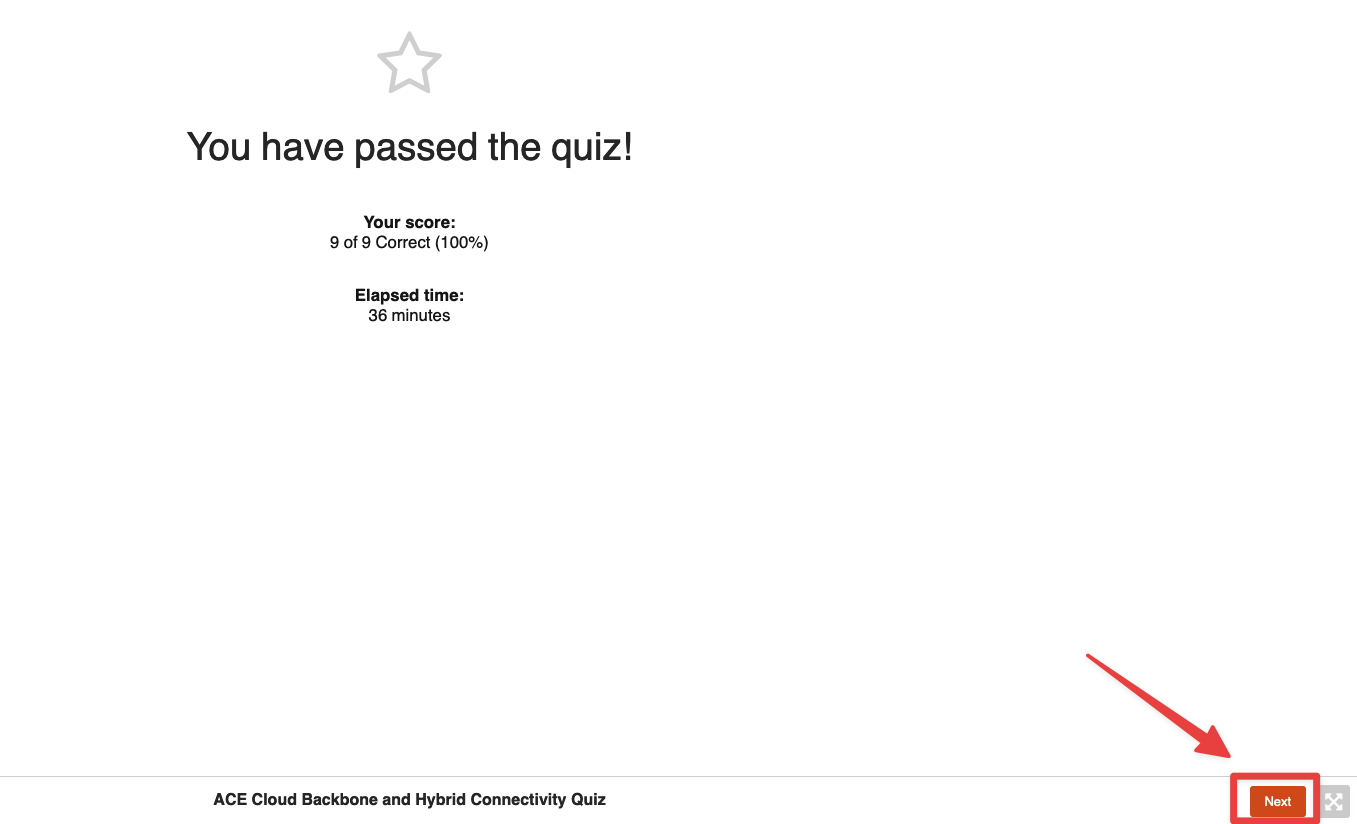
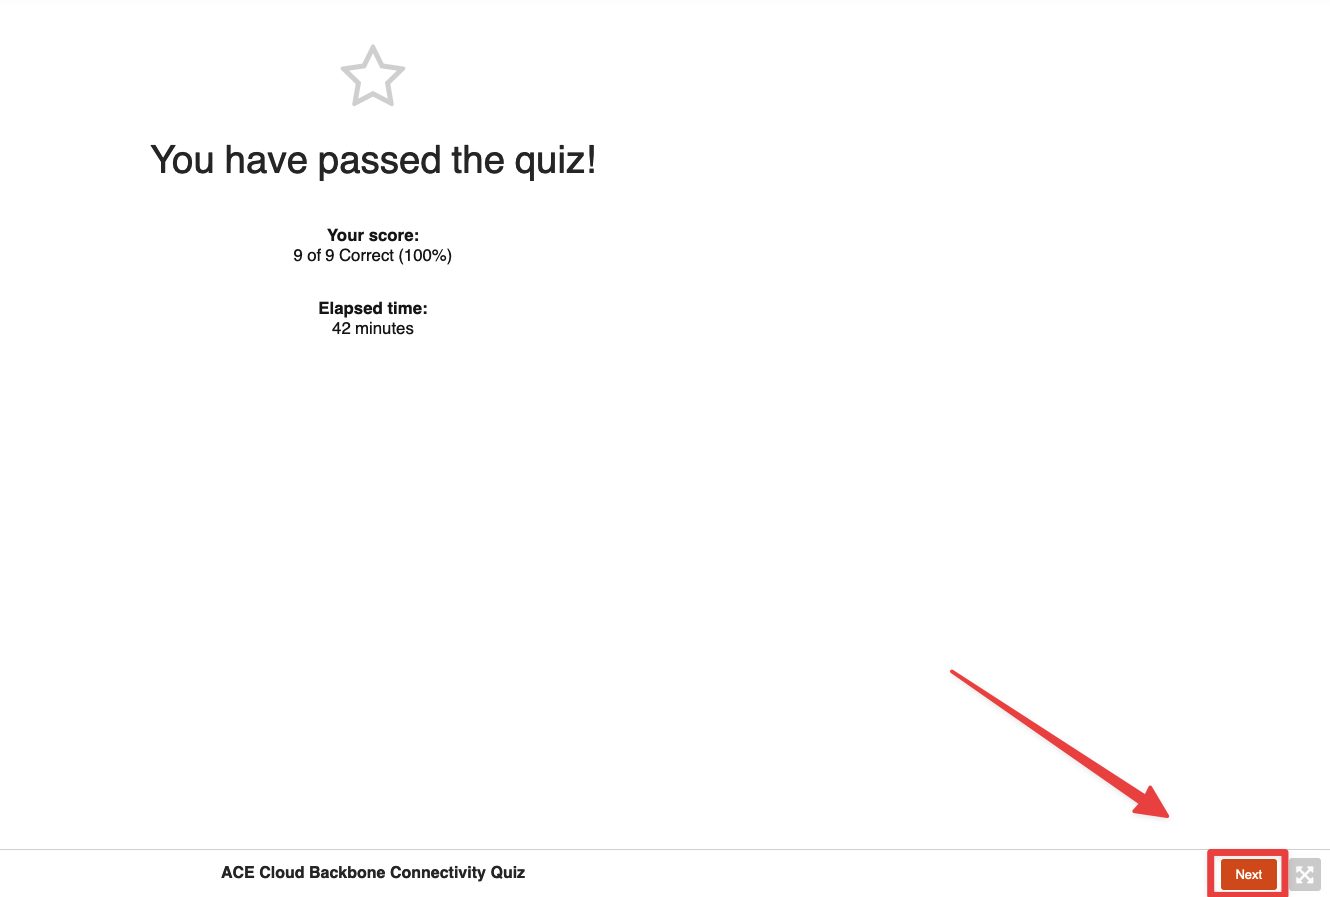
sec update

diff --git a/ace_backbone/docs/lab.md b/ace_backbone/docs/lab.md
@@ -1,4 +1,4 @@
-# Lab - Cloud Backbone
+# Lab - Hints
 
 ## 1 - Initial Topology
 
@@ -17,6 +17,10 @@ Initial Topology
 ### 1.1 - Quick Knowledge Quiz
 
 <span style='color:#479608'>Q1.</span> Which native cloud services providers resources are used to onboard on-premise resources?
+
+```{hint}
+Check **CoPilot > Cloud Fabric > Topology**
+```
 
 ## 2 - Dynamic Topology
 
@@ -45,14 +49,22 @@ Managed VPCs
 ---
 align: center
 ---
-Cloud Backbone & Hybrid Connectivity Topology
+Cloud Backbone Topology
 ```
 
 ### 2.1 - Quick Knowledge Quiz
 
 <span style='color:#479608'>Q2.</span> Where is the Aviatrix Edge deployed?
 
+```{hint}
+Check **CoPilot > Cloud Fabric > Edge**
+```
+
 <span style='color:#479608'>Q3.</span> To which Aviatrix cloud resources Aviatrix Edge is associated with?
+
+```{hint}
+Check **CoPilot > Cloud Fabric > Topology**
+```
 
 ## 3 - Networking & Security Infrastructure
 
@@ -108,7 +120,15 @@ Connectivity with Native CSP Constructs
 
 <span style='color:#479608'>Q4.</span> How AWS, Azure and GCP transits are peered with each other?
 
+```{hint}
+Check **CoPilot > Cloud Fabric > Topology**
+```
+
 <span style='color:#479608'>Q5.</span> Was Aviatrix Cloud Backbone established using Standard or High Performance Encryption?
+
+```{hint}
+Check **CoPilot > Cloud Fabric > Topology > Legend**
+```
 
 ## 4 - Traffic Routing
 
@@ -136,9 +156,13 @@ Verify Backbone components are receiving the routes across Multicloud environmen
 
 <span style='color:#479608'>Q6.</span> What routes GCP Transit GW is receiving from the Equinix Fabric?
 
+```{hint}
+Check **CoPilot > Diagnostics > Cloud Routes > Gateway Routes** and loot at the *backbone-gcp*'s RTB
+```
+
 ## 5 - Data Plane Verification
 
-Since this is a brownfield environment where this customer just started using  Aviatrix Cloud Backbone for East-West communication and don't have Aviatrix Spoke Gateways in any application VPCS/VNETS/VCNS, you won't be able to find the application EC2/VM on the dynamic topology map. 
+Since this is a brownfield environment where this customer just started using  Aviatrix Cloud Backbone for East-West communication and doesn't have Aviatrix Spoke Gateways in any application VPCS/VNETS/VCNS, you won't be able to find the application EC2/VM on the dynamic topology map. 
 
 To find the application EC2/VM <ins>Public IP address</ins>, go to:
 
@@ -156,13 +180,13 @@ SSH from your laptop to the instance **_aws-instance_**, using your favourite SS
 Alternatively, you can use the following command: 
 
 ```bash
-ssh student@aws.pod#.aviatrixlab.com
+ssh student@aws.pod1.aviatrixlab.com
 ```
 
 ```{note}
-pod# and password will be provided at the time of lab.
+**username**: *student*
 
-<ins>Replace the **#** symbol with your POD number!</ins>
+**password**: *3168EXx74P4#fH*
 ```
 
 Ping GCP VM's private IP from the AWS instance to test the backbone:
@@ -176,11 +200,11 @@ Ping Verification
 
 Access all the application instances/VMs using your laptop's browser using the following links:
 
-http://aws.pod#.aviatrixlab.com/
+http://aws.pod1.aviatrixlab.com/
 
-http://azure.pod#.aviatrixlab.com/
+http://azure.pod1.aviatrixlab.com/
 
-http://gcp.pod#.aviatrixlab.com/
+http://gcp.pod1.aviatrixlab.com/
 
 ```{figure} images/browser.png
 ---
@@ -198,6 +222,10 @@ Browser Verification
 Verify how many paths are available for an application to communicate between AWS and GCP, which one is the best path and why?
 
 <span style='color:#479608'>Q8.</span> Visually from the dynamic topology map in Copilot, verify how many paths are available for an application to communicate between AWS and GCP?
+
+```{hint}
+Check **CoPilot > Cloud Fabric > Topology**
+```
 
 #### 6.1.1 **Diagnostics > AppIQ > FlightPath**
 
@@ -228,6 +256,10 @@ Latency Monitor
 
 <span style='color:#479608'>Q9.</span> Which Path is best for an application to communicate between AWS and GCP?
 
+```{hint}
+Check **CoPilot > Cloud Fabric > Topology**
+```
+
 ## 7 - Conclusion
 
-In this lab, we have successfully verified and troubleshooted Aviatrix Cloud Backbone and hybrid connectivity including Equinix colocation.
+In this lab, we have successfully verified and troubleshooted Aviatrix Cloud Backbone, including Equinix colocation.

diff --git a/ace_backbone/docs/details.md b/ace_backbone/docs/details.md
@@ -1,0 +1,29 @@
+# POD Details
+
+
+## URL
+
+```{image} images/copilot.png
+:alt: CoPilot
+:class: bg-primary
+:width: 25px
+:align: left
+```
+
+<a href="https://cplt.pod1.aviatrixlab.com" target="_blank">CoPilot</a>
+
+Aviatrix **CoPilot** provides a global operational view of your multicloud network, supporting business-critical cloud networking. CoPilot enables enterprises to implement intelligent cloud networking that embeds security into their networks with monitoring and diagnostic tools that help support application availability.
+
+## Access credentials
+
+Username:
+
+```bash
+student
+```
+
+Password:
+
+```bash
+3168EXx74P4#fH
+```

diff --git a/ace_backbone/docs/summary.md b/ace_backbone/docs/summary.md
@@ -2,7 +2,7 @@
 
 **Congratulations!!!**  
 
-You have completed Aviatrix Cloud Backbone and Hybrid Connectivity Specialty course!!
+You have completed Aviatrix Cloud Backbone course!!
 
 Throughout the course, we developed a strong understanding of Aviatrix Cloud Backbone and Aviatrix Edge across multiple clouds without disrupting the existing native architecture.
 

diff --git a/ace_backbone/docs/quiz.md b/ace_backbone/docs/quiz.md
@@ -21,7 +21,7 @@ Portal
 ```
 
 ```{important}
-After logged in, click on **"ACE Cloud Backbone and Hybrid Connectivity Quiz"**.
+After logged in, click on **"ACE Cloud Backbone Connectivity Quiz"**.
 ```
 
 - To complete the quiz, you must use the Aviatrix ACE-Backbone POD
